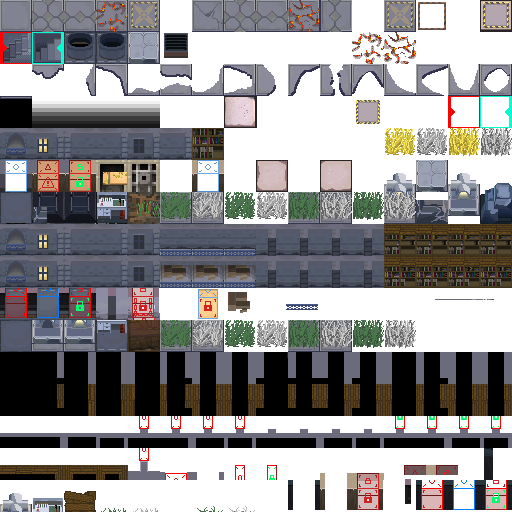
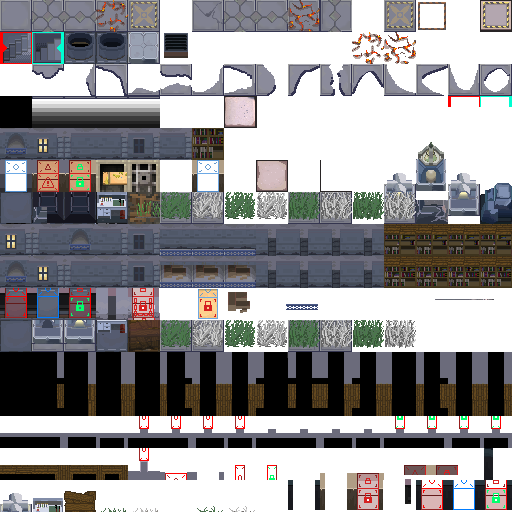
타일

diff --git a/Arrrknights/core/src/main/java/com/shatteredpixel/shatteredpixeldungeon/levels/SeaLevel_part1.java b/Arrrknights/core/src/main/java/com/shatteredpixel/shatteredpixeldungeon/levels/SeaLevel_part1.java
@@ -1,0 +1,141 @@
+package com.shatteredpixel.shatteredpixeldungeon.levels;
+
+import com.shatteredpixel.shatteredpixeldungeon.Assets;
+import com.shatteredpixel.shatteredpixeldungeon.Dungeon;
+import com.shatteredpixel.shatteredpixeldungeon.actors.mobs.npcs.Ceylon;
+import com.shatteredpixel.shatteredpixeldungeon.items.NervousPotion;
+import com.shatteredpixel.shatteredpixeldungeon.items.potions.PotionOfHealing;
+import com.shatteredpixel.shatteredpixeldungeon.items.potions.PotionOfStrength;
+import com.shatteredpixel.shatteredpixeldungeon.items.quest.Obsidian;
+import com.shatteredpixel.shatteredpixeldungeon.levels.painters.Painter;
+import com.shatteredpixel.shatteredpixeldungeon.levels.painters.SiestaPainter;
+import com.shatteredpixel.shatteredpixeldungeon.levels.traps.CursingTrap;
+import com.shatteredpixel.shatteredpixeldungeon.levels.traps.FlashingTrap;
+import com.shatteredpixel.shatteredpixeldungeon.levels.traps.FrostTrap;
+import com.shatteredpixel.shatteredpixeldungeon.levels.traps.GrimTrap;
+import com.shatteredpixel.shatteredpixeldungeon.levels.traps.HallucinationTrap;
+import com.shatteredpixel.shatteredpixeldungeon.levels.traps.OozeTrap;
+import com.shatteredpixel.shatteredpixeldungeon.levels.traps.OriginiumTrap;
+import com.shatteredpixel.shatteredpixeldungeon.levels.traps.PoisonDartTrap;
+import com.shatteredpixel.shatteredpixeldungeon.levels.traps.StormTrap;
+import com.shatteredpixel.shatteredpixeldungeon.levels.traps.ToxicTrap;
+import com.shatteredpixel.shatteredpixeldungeon.levels.traps.WarpingTrap;
+import com.shatteredpixel.shatteredpixeldungeon.messages.Messages;
+import com.watabou.noosa.Group;
+import com.watabou.utils.Random;
+
+public class SeaLevel_part1 extends RegularLevel {
+    {
+        color1 = 0x4b6636;
+        color2 = 0xf2f2f2;
+    }
+
+    @Override
+    protected int standardRooms(boolean forceMax) {
+        if (forceMax) return 7;
+        //8 to 10, average 8.67
+        return 7+ Random.chances(new float[]{3, 2, 1});
+    }
+
+    @Override
+    protected int specialRooms(boolean forceMax) {
+        if (forceMax) return 3;
+        return 1 + Random.chances(new float[]{1, 1});
+    }
+
+    @Override
+    protected void createItems() {
+        if (Dungeon.depth == 32 || Dungeon.depth == 34) {
+            addItemToSpawn(new PotionOfHealing());}
+        else addItemToSpawn(new PotionOfStrength());
+        addItemToSpawn(new NervousPotion());
+        super.createItems();
+    }
+
+    @Override
+    public int nMobs() {
+        // 다른 계층보다 몬스터가 2마리 많이 등장합니다.
+        return super.nMobs()+2;
+    }
+
+    @Override
+    public String tilesTex() {
+        return Assets.Environment.TILSE_IBERIA2;
+    }
+
+    @Override
+    public String waterTex() {
+        return Assets.Environment.WATER_IBERIA;
+    }
+
+    @Override
+    protected Painter painter() {
+        return new SiestaPainter()
+                .setWater(feeling == Feeling.WATER ? 0.98f : 0.38f, 4)
+                .setGrass(feeling == Feeling.GRASS ? 0.80f : 0.20f, 3)
+                .setTraps(nTraps(), trapClasses(), trapChances());
+    }
+
+    @Override
+    protected Class<?>[] trapClasses() {
+        return new Class[]{
+                FrostTrap.class, ToxicTrap.class, OozeTrap.class, PoisonDartTrap.class,
+                OriginiumTrap.class, FlashingTrap.class, StormTrap.class, CursingTrap.class,
+                GrimTrap.class, WarpingTrap.class, HallucinationTrap.class
+        };
+    }
+
+    @Override
+    protected float[] trapChances() {
+        return new float[]{
+                4,4,4,4,
+                2,2,2,2,
+                1,1,1
+        };
+    }
+
+    @Override
+    protected void createMobs() {
+        super.createMobs();
+    }
+
+    @Override
+    public String tileName( int tile ) {
+        switch (tile) {
+            case Terrain.WATER:
+                return Messages.get(CityLevel.class, "water_name");
+            case Terrain.HIGH_GRASS:
+                return Messages.get(CityLevel.class, "high_grass_name");
+            default:
+                return super.tileName( tile );
+        }
+    }
+
+    @Override
+    public String tileDesc(int tile) {
+        switch (tile) {
+            case Terrain.ENTRANCE:
+                return Messages.get(CityLevel.class, "entrance_desc");
+            case Terrain.EXIT:
+                return Messages.get(CityLevel.class, "exit_desc");
+            case Terrain.WALL_DECO:
+            case Terrain.EMPTY_DECO:
+                return Messages.get(CityLevel.class, "deco_desc");
+            case Terrain.EMPTY_SP:
+                return Messages.get(CityLevel.class, "sp_desc");
+            case Terrain.STATUE:
+            case Terrain.STATUE_SP:
+                return Messages.get(CityLevel.class, "statue_desc");
+            case Terrain.BOOKSHELF:
+                return Messages.get(CityLevel.class, "bookshelf_desc");
+            default:
+                return super.tileDesc( tile );
+        }
+    }
+
+    @Override
+    public Group addVisuals() {
+        super.addVisuals();
+        return visuals;
+    }
+}

diff --git a/Arrrknights/core/src/main/java/com/shatteredpixel/shatteredpixeldungeon/Dungeon.java b/Arrrknights/core/src/main/java/com/shatteredpixel/shatteredpixeldungeon/Dungeon.java
@@ -74,7 +74,7 @@ import com.shatteredpixel.shatteredpixeldungeon.levels.PrisonLevel;
 import com.shatteredpixel.shatteredpixeldungeon.levels.RhodesLevel2;
 import com.shatteredpixel.shatteredpixeldungeon.levels.RhodesLevel3;
 import com.shatteredpixel.shatteredpixeldungeon.levels.RhodesLevel4;
-import com.shatteredpixel.shatteredpixeldungeon.levels.SeeLevel_part1;
+import com.shatteredpixel.shatteredpixeldungeon.levels.SeaLevel_part1;
 import com.shatteredpixel.shatteredpixeldungeon.levels.SewerBossLevel;
 import com.shatteredpixel.shatteredpixeldungeon.levels.SewerLevel;
 import com.shatteredpixel.shatteredpixeldungeon.levels.SiestaBossLevel_part1;
@@ -200,7 +200,7 @@ public class Dungeon {
 	public static int siesta1_bosspower;
 
 	public static boolean extrastage_Gavial; // true라면 가비알 스테이지 실행
-	public static boolean extrastage_See;
+	public static boolean extrastage_Sea;
 
 	public static boolean isPray; // 프리스티스를 위한 기도를 하였는가?
 	public static boolean killcat; // 엔딩 씬에서 켈시 하극상 출현용.
@@ -272,7 +272,7 @@ public class Dungeon {
 		isPray = false;
 		killcat = false;
 		extrastage_Gavial = false;
-		extrastage_See = false;
+		extrastage_Sea = false;
 
 		Jessica.QuestClear = false;
 		NPC_Phantom.QuestClear = false;
@@ -412,7 +412,7 @@ public class Dungeon {
 			case 33:
 			case 34:
 				if (extrastage_Gavial) level = new GavialLevel();
-				else if (extrastage_See) level = new SeeLevel_part1();
+				else if (extrastage_Sea) level = new SeaLevel_part1();
 				else level = new SiestaLevel_part1();
 				break;
 			case 35:
@@ -607,7 +607,7 @@ public class Dungeon {
 	private static final String TALU    = "talucount";
 	private static final String SIEBOSS1    = "siesta1_bosspower";
 	private static final String GAVIAL    = "extrastage_Gavial";
-	private static final String SEE    = "extrastage_See";
+	private static final String SEA    = "extrastage_SeA";
 	private static final String CATQUEST    = "QuestCatPoint";
 	private static final String PHANTOM_QUESTCLEAR    = "NPC_Phantom.QuestClear";
 	private static final String JESI_QUESTCLEAR    = "Jessica.QuestClear";
@@ -647,7 +647,7 @@ public class Dungeon {
 			bundle.put (TALU, talucount);
 			bundle.put (SIEBOSS1, siesta1_bosspower);
 			bundle.put (GAVIAL, extrastage_Gavial);
-			bundle.put (SEE, extrastage_See);
+			bundle.put (SEA, extrastage_Sea);
 
 			bundle.put (PHANTOM_QUESTCLEAR, NPC_Phantom.QuestClear);
 			bundle.put (JESI_QUESTCLEAR, Jessica.QuestClear);
@@ -830,7 +830,7 @@ public class Dungeon {
 		talucount = bundle.getInt(TALU);
 		siesta1_bosspower = bundle.getInt(SIEBOSS1);
 		extrastage_Gavial = bundle.getBoolean(GAVIAL);
-		extrastage_See = bundle.getBoolean(SEE);
+		extrastage_Sea = bundle.getBoolean(SEA);
 
 		QuestCatPoint = bundle.getInt(CATQUEST);
 

diff --git a/Arrrknights/core/src/main/java/com/shatteredpixel/shatteredpixeldungeon/actors/mobs/Bestiary.java b/Arrrknights/core/src/main/java/com/shatteredpixel/shatteredpixeldungeon/actors/mobs/Bestiary.java
@@ -192,7 +192,7 @@ public class Bestiary {
 							TiacauhWarrior.class, TiacauhWarrior.class, TiacauhWarrior.class,
 							TiacauhFanatic.class, TiacauhFanatic.class));
 				}
-				else if (Dungeon.extrastage_See) {
+				else if (Dungeon.extrastage_Sea) {
 					return new ArrayList<>(Arrays.asList(
 							SeaRunner.class, SeaRunner.class,
 							FloatingSeaDrifter.class, FloatingSeaDrifter.class));
@@ -208,7 +208,7 @@ public class Bestiary {
 							TiacauhFanatic.class, TiacauhFanatic.class,
 							TiacauhLancer.class));
 				}
-				else if (Dungeon.extrastage_See) {
+				else if (Dungeon.extrastage_Sea) {
 					return new ArrayList<>(Arrays.asList(
 							SeaRunner.class, SeaRunner.class,
 							FloatingSeaDrifter.class, FloatingSeaDrifter.class,
@@ -227,7 +227,7 @@ public class Bestiary {
 							TiacauhLancer.class, TiacauhLancer.class,
 							TiacauhAddict.class));
 				}
-				else if (Dungeon.extrastage_See) {
+				else if (Dungeon.extrastage_Sea) {
 					return new ArrayList<>(Arrays.asList(
 							SeaRunner.class, SeaRunner.class,
 							FloatingSeaDrifter.class,
@@ -248,7 +248,7 @@ public class Bestiary {
 							TiacauhLancer.class, TiacauhLancer.class,
 							TiacauhAddict.class, TiacauhAddict.class, TiacauhAddict.class));
 				}
-				else if (Dungeon.extrastage_See) {
+				else if (Dungeon.extrastage_Sea) {
 					return new ArrayList<>(Arrays.asList(
 							SeaRunner.class, SeaRunner.class,
 							SeaReaper.class, SeaReaper.class,
@@ -266,7 +266,7 @@ public class Bestiary {
 							TiacauhRipper.class, TiacauhRipper.class, TiacauhRipper.class,
 							TiacauhShredder.class, TiacauhShredder.class));
 				}
-				else if (Dungeon.extrastage_See) {
+				else if (Dungeon.extrastage_Sea) {
 					return new ArrayList<>(Arrays.asList(
 							SeaReaper.class,
 							Sea_Octo.class, Sea_Octo.class,

diff --git a/Arrrknights/core/src/main/java/com/shatteredpixel/shatteredpixeldungeon/Assets.java b/Arrrknights/core/src/main/java/com/shatteredpixel/shatteredpixeldungeon/Assets.java
@@ -44,6 +44,8 @@ public class Assets {
 		public static final String TILSE_RHODES	= "environment/tiles_rhodos.png";
 		public static final String TILSE_SIESTA	= "environment/tiles_siesta.png";
 		public static final String TILSE_SIESTA2	= "environment/tiles_siesta2.png";
+		public static final String TILSE_IBERIA	= "environment/tiles_iberia.png";
+		public static final String TILSE_IBERIA2	= "environment/tiles_iberia2.png";
 		public static final String TILSE_SARGON	= "environment/tiles_sargon.png";
 
 		public static final String WATER_SEWERS	= "environment/water0.png";
@@ -53,6 +55,8 @@ public class Assets {
 		public static final String WATER_HALLS	= "environment/water4.png";
 		public static final String WATER_SIESTA	= "environment/water5.png";
 		public static final String WATER_SIESTA2	= "environment/water6.png";
+		public static final String WATER_IBERIA	= "environment/water7.png";
+		public static final String WATER_IBERIA2	= "environment/water7.png";
 
 		public static final String WEAK_FLOOR       = "environment/custom_tiles/weak_floor.png";
 		public static final String SEWER_BOSS       = "environment/custom_tiles/sewer_boss.png";

diff --git a/Arrrknights/core/src/main/java/com/shatteredpixel/shatteredpixeldungeon/windows/WndPilot.java b/Arrrknights/core/src/main/java/com/shatteredpixel/shatteredpixeldungeon/windows/WndPilot.java
@@ -26,7 +26,7 @@ public class WndPilot extends Window {
         if (Dungeon.extrastage_Gavial) {
             titlebar.icon( new ItemSprite(ItemSpriteSheet.AMULET, null ));
             titlebar.label( Messages.get(this, "gavial_name"));}
-        else if (Dungeon.extrastage_See) {
+        else if (Dungeon.extrastage_Sea) {
             titlebar.icon( new ItemSprite(ItemSpriteSheet.ORIGINIUM, null ));
             titlebar.label( Messages.get(this, "sea_name"));}
         else {titlebar.icon( new ItemSprite(ItemSpriteSheet.OBSIDIAN, null ));
@@ -36,7 +36,7 @@ public class WndPilot extends Window {
 
         RenderedTextBlock message;
         if (Dungeon.extrastage_Gavial)  message = PixelScene.renderTextBlock( Messages.get(this, "gavial"), 6 );
-        else if (Dungeon.extrastage_See)  message = PixelScene.renderTextBlock( Messages.get(this, "sea"), 6 );
+        else if (Dungeon.extrastage_Sea)  message = PixelScene.renderTextBlock( Messages.get(this, "sea"), 6 );
         else message = PixelScene.renderTextBlock( Messages.get(this, "siesta"), 6 );
         message.maxWidth(WIDTH);
         message.setPos(0, titlebar.bottom() + GAP);

diff --git a/Arrrknights/core/src/main/java/com/shatteredpixel/shatteredpixeldungeon/scenes/GameScene.java b/Arrrknights/core/src/main/java/com/shatteredpixel/shatteredpixeldungeon/scenes/GameScene.java
@@ -235,12 +235,14 @@ public class GameScene extends PixelScene {
 		else if (Dungeon.depth >= 27 && Dungeon.depth < 31) {
 			Music.INSTANCE.play(Assets.Music.RHODOS, true);
 		}
-		else if (Dungeon.depth >= 31 && Dungeon.depth < 35) {
+		else if (Dungeon.depth >= 36 && Dungeon.depth < 40) {
 			if (Dungeon.extrastage_Gavial) Music.INSTANCE.play(Assets.Music.GAME6_SARGON1, true);
+			else if (Dungeon.extrastage_Sea) Music.INSTANCE.play(Assets.Music.GAME6_IBERIA1, true);
 			else Music.INSTANCE.play(Assets.Music.GAME6_SIESTA, true);
 		}
-		else if (Dungeon.depth >= 36 && Dungeon.depth < 40) {
+		else if (Dungeon.depth >= 31 && Dungeon.depth < 35) {
 			if (Dungeon.extrastage_Gavial) Music.INSTANCE.play(Assets.Music.GAME6_SARGON2, true);
+			else if (Dungeon.extrastage_Sea) Music.INSTANCE.play(Assets.Music.GAME6_IBERIA2, true);
 			else Music.INSTANCE.play(Assets.Music.GAME6_SIESTA2, true);
 		}
 

diff --git a/Arrrknights/core/src/main/java/com/shatteredpixel/shatteredpixeldungeon/levels/SeaLevel_part2.java b/Arrrknights/core/src/main/java/com/shatteredpixel/shatteredpixeldungeon/levels/SeaLevel_part2.java
@@ -24,7 +24,7 @@ import com.shatteredpixel.shatteredpixeldungeon.messages.Messages;
 import com.watabou.noosa.Group;
 import com.watabou.utils.Random;
 
-public class SeeLevel_part1 extends RegularLevel {
+public class SeaLevel_part2 extends RegularLevel {
     {
         color1 = 0x4b6636;
         color2 = 0xf2f2f2;
@@ -60,12 +60,12 @@ public class SeeLevel_part1 extends RegularLevel {
 
     @Override
     public String tilesTex() {
-        return Assets.Environment.TILSE_SIESTA;
+        return Assets.Environment.TILSE_IBERIA2;
     }
 
     @Override
     public String waterTex() {
-        return Assets.Environment.WATER_SIESTA;
+        return Assets.Environment.WATER_IBERIA2;
     }
 
     @Override

diff --git a/Arrrknights/core/src/main/java/com/shatteredpixel/shatteredpixeldungeon/actors/mobs/npcs/NPC_Irene.java b/Arrrknights/core/src/main/java/com/shatteredpixel/shatteredpixeldungeon/actors/mobs/npcs/NPC_Irene.java
@@ -27,11 +27,11 @@ public class NPC_Irene extends NPC {
     @Override
     public boolean interact(Char c) {
         sprite.turnTo(pos, c.pos);
-            if (Dungeon.extrastage_See) {
-                Dungeon.extrastage_See = false;
+            if (Dungeon.extrastage_Sea) {
+                Dungeon.extrastage_Sea = false;
                 sprite.showStatus(CharSprite.POSITIVE, Messages.get(this, "no"));
             } else {
-                Dungeon.extrastage_See = true;
+                Dungeon.extrastage_Sea = true;
                 sprite.showStatus(CharSprite.POSITIVE, Messages.get(this, "ok"));
             }
         return true;

diff --git a/Arrrknights/core/src/main/java/com/shatteredpixel/shatteredpixeldungeon/actors/mobs/SeaCapsule.java b/Arrrknights/core/src/main/java/com/shatteredpixel/shatteredpixeldungeon/actors/mobs/SeaCapsule.java
@@ -9,12 +9,13 @@ import com.shatteredpixel.shatteredpixeldungeon.actors.hero.Hero;
 import com.shatteredpixel.shatteredpixeldungeon.items.NervousPotion;
 import com.shatteredpixel.shatteredpixeldungeon.items.food.MysteryMeat;
 import com.shatteredpixel.shatteredpixeldungeon.sprites.Bug_ASprite;
+import com.shatteredpixel.shatteredpixeldungeon.sprites.Sea_CrawlerSprite;
 import com.watabou.utils.PathFinder;
 import com.watabou.utils.Random;
 
 public class SeaCapsule extends Mob{
     {
-        spriteClass = Bug_ASprite.class;
+        spriteClass = Sea_CrawlerSprite.class;
 
         HP = HT = 1400;
         EXP = 17;

diff --git a/Arrrknights/core/src/main/java/com/shatteredpixel/shatteredpixeldungeon/items/weapon/melee/Heamyo.java b/Arrrknights/core/src/main/java/com/shatteredpixel/shatteredpixeldungeon/items/weapon/melee/Heamyo.java
@@ -21,6 +21,7 @@
 
 package com.shatteredpixel.shatteredpixeldungeon.items.weapon.melee;
 
+import com.shatteredpixel.shatteredpixeldungeon.Assets;
 import com.shatteredpixel.shatteredpixeldungeon.Dungeon;
 import com.shatteredpixel.shatteredpixeldungeon.actors.Char;
 import com.shatteredpixel.shatteredpixeldungeon.actors.mobs.Mob;
@@ -33,6 +34,7 @@ public class Heamyo extends MeleeWeapon {
 
     {
         image = ItemSpriteSheet.HEAMYO;
+        hitSound = Assets.Sounds.GOLD;
 
         tier = 1;
         ACC = 12000f;

diff --git a/Arrrknights/core/src/main/java/com/shatteredpixel/shatteredpixeldungeon/actors/hero/Hero.java b/Arrrknights/core/src/main/java/com/shatteredpixel/shatteredpixeldungeon/actors/hero/Hero.java
@@ -876,7 +876,7 @@ public class Hero extends Char {
         }
         else if (subClass == HeroSubClass.WILD) Buff.affect(this, WildMark.class);
 
-        if (Dungeon.depth > 31 && Dungeon.extrastage_See && Dungeon.level.map[this.pos] == Terrain.EMPTY_SP) {
+        if (Dungeon.depth > 31 && Dungeon.extrastage_Sea && Dungeon.level.map[this.pos] == Terrain.EMPTY_SP) {
             if (buff(NervousImpairment.class) == null) {
                 Buff.affect(this, NervousImpairment.class);
             }

diff --git a/Arrrknights/core/src/main/java/com/shatteredpixel/shatteredpixeldungeon/actors/mobs/Mob.java b/Arrrknights/core/src/main/java/com/shatteredpixel/shatteredpixeldungeon/actors/mobs/Mob.java
@@ -1193,7 +1193,7 @@ public abstract class Mob extends Char {
 			}
 		}
 
-		if (Dungeon.depth > 31 && Dungeon.extrastage_See && Dungeon.level.map[this.pos] == Terrain.EMPTY_SP) {
+		if (Dungeon.depth > 31 && Dungeon.extrastage_Sea && Dungeon.level.map[this.pos] == Terrain.EMPTY_SP) {
 			int evaporatedTiles;
 			evaporatedTiles = Random.chances(new float[]{0, 0, 0, 0, 0, 1, 2, 1, 1});
 			for (int i = 0; i < evaporatedTiles; i++) {
